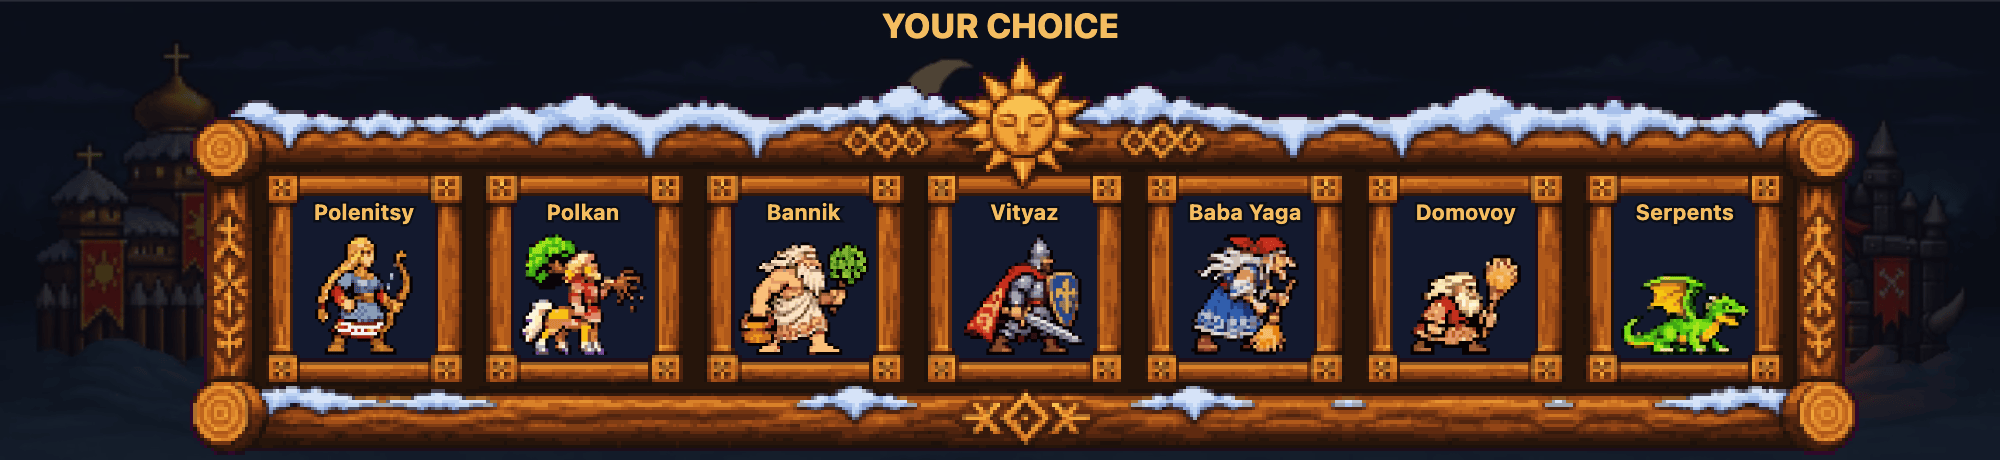
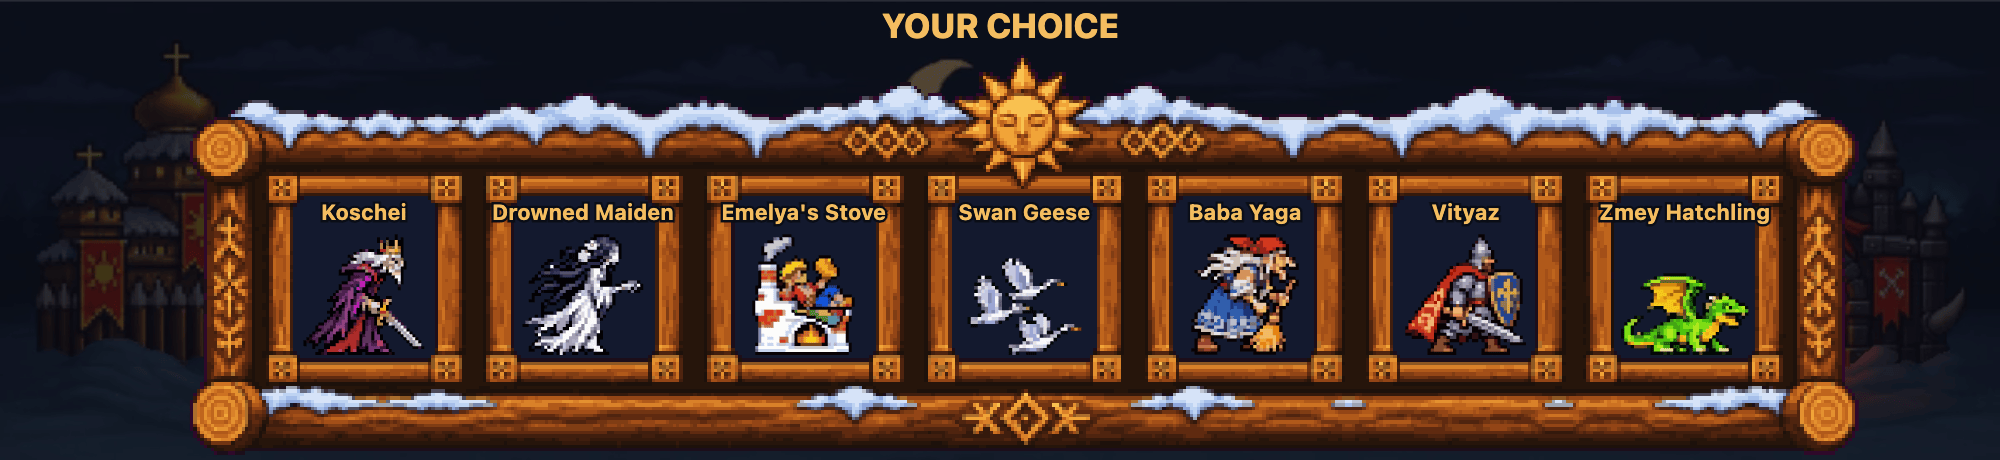
README for 0.6.0: the race choice, lines tied and sold from their card, two prices on the hire bar, the race's mana spell; pictures taken on the 0.6.0 core and the Claude Desktop window

diff --git a/README.md b/README.md
@@ -2,11 +2,11 @@
 
 <p align="center">
   <b>Play while you’re Clauding.</b><br>
-  An autobattler above the prompt: Slavic folklore against orcs. The battle runs while Claude works, and Claude's work deals the cards.
+  An autobattler above the prompt: Slavic folklore against orcs. Play either side. The battle runs while Claude works, and Claude's work deals the cards.
 </p>
 
 <p align="center">
-  <img src="media/battle.gif" alt="A battle: Slavic warriors and a dragon fight orcs between a wooden fortress and an orc gate" width="1000">
+  <img src="media/battle.gif" alt="A battle: Perun's lightning strikes the orcs, then the Tsar's Stove, a Bogatyr and Koschei fight them between a wooden fortress and an orc gate" width="1000">
 </p>
 
 <p align="center">
@@ -17,9 +17,9 @@
 
 You give Claude a task. While it works, a small war runs in the band above the prompt box. You hire the army with a few clicks, and you can look away at any time: the battle waits when Claude stops.
 
-The game is free. It is an unofficial mod: Anthropic did not make it and does not endorse it.
-
-<!-- SCREENSHOT NEEDED: the Claude Desktop window with the game above the prompt. -->
+<p align="center">
+  <img src="media/desktop.png" alt="Claude Desktop: the battle and the hire bar stand above the prompt box while Claude works" width="1000">
+</p>
 
 ## Install
 
@@ -36,60 +36,76 @@ Or from a terminal:
 claude plugin install banners-of-lore --marketplace Nero0909/banners-of-lore
 ```
 
-On your first run the title offers a short lesson from the learned cat. The game speaks English and Russian: pick the language in **Settings** on the title.
+On your first run the title offers a short tutorial from the learned cat. The game speaks English and Russian: pick the language in **Settings** on the title.
 
 <p align="center">
-  <img src="media/title.png" alt="The title: New game, Lesson, Settings, and the cat's tip" width="1000">
+  <img src="media/title.png" alt="The title: New game, Tutorial, Settings, and the cat's tip" width="1000">
 </p>
 
 ## How it plays
 
-**Goal.** Break the orc gate before the orcs break your castle.
+**Goal.** Break the enemy's walls before they break yours.
 
-### 1. Draft your army
+### 1. Choose your race
 
-Pick your lines by hand, or let the reels deal them for +50 gold. Each side has 19 lines: tanks, mages, archers, supports and epics. The orcs draft too, and you see their choice before the fight.
+The Slavs hold the wooden fortress, the orcs hold the gate. Each race fights its own way:
+
+| | Slavs: kin and home | Orcs: blood and fury |
+|---|---|---|
+| **Fallen warriors** | Fill the Kin bar. At 12, your army heals and hits 30% harder. | Fill the Rage bar. When it is full, your orcs strike twice as fast. |
+| **Second power** | Home ground: near your fortress, your warriors take 20% less harm. | Scent of blood: your orcs hit 10% harder at foes below half health. |
+| **Mana spell** | Perun's lightning strikes the foe. | The orc totem stuns the foe. |
+
+<p align="center">
+  <img src="media/race.png" alt="Choose your race: the Slavs, kin and home, or the orcs, blood and fury" width="1000">
+</p>
+
+### 2. Draft your army
+
+Pick your lines by hand, or let the reels deal them for +50 gold. Each side has 19 lines: tanks, mages, archers, supports and epics. The enemy drafts too, and you see its choice before the fight.
 
 <p align="center">
   <img src="media/draft.png" alt="Your choice: seven Slavic lines dealt by the reels" width="1000">
   <img src="media/enemy.png" alt="Your enemy chose: seven orc lines" width="1000">
 </p>
 
-### 2. Hire and upgrade
+### 3. Hire, upgrade, tie and sell
 
-Gold comes every payday, once in 20 seconds. Each hire lifts the next payday, so gold kept in store earns nothing. You open five places on the field from your reserve, then hire more packs into each line and upgrade it to its stronger form. A line that no longer helps can be sold from its card for 80% of all the gold put into it.
+Gold comes every payday, once in 20 seconds. Each hire lifts the next payday, so gold kept in store earns nothing.
 
-<p align="center">
-  <img src="media/reserve.png" alt="The reserve: cards of the lines you can place, with price, attack, armour and ability" width="1000">
-</p>
-
-### 3. Counter the armour
-
-There are five attack types and five armour types. Pierce tears through Light armour (x1.75) and does little to Fortified (x0.57). Click any warrior on the field to see what it hits and what stops it.
+- **Place.** Open five places on the field from your reserve. An epic wakes after you hire enough of the others.
+- **Hire and upgrade.** Each line on the hire bar has two prices: the left one adds one more warrior, the right one (▲) makes the whole line stronger.
+- **Tie lines.** Click a face on the hire bar to open the line's card. There you choose which line it marches out with, so your archers walk behind your blades.
+- **Sell.** The same card sells the line for 80% of the gold you paid. Its warriors on the field fight on.
 
 <p align="center">
-  <img src="media/unit.png" alt="A unit card: Bogatyr, with armour, attack, HP, damage, range, speed, cost and abilities" width="1000">
+  <img src="media/reserve.png" alt="The reserve: cards of the lines you can place, with price, attack, armor and ability" width="1000">
+  <img src="media/unit.png" alt="A line's card: Rusalka, with armor, attack, HP, damage, range, speed, cost, abilities, a Sell plate and the lines she can march out with" width="1000">
 </p>
 
-### 4. Claude's work joins the fight
+### 4. Counter the armor
+
+There are five attack types and five armor types. Pierce tears through Light armor (x1.75) and does little to Fortified (x0.57). Click any warrior on the field to see what it hits and what stops it.
+
+### 5. Claude's work joins the fight
 
 | What Claude does | What happens on the field |
 |---|---|
-| Writes output tokens | Mana fills. At 25 mana Perun strikes the orcs with lightning. |
-| Adds, edits or deletes lines of code | The die rolls and deals a card: gold, a damage boost, a stun, a storm. Most cards are good, and deleted lines make the die kinder. |
-| A tool call fails | The next orcs come enraged. |
-| Compacts its context | The orcs raise a totem, and your army stands still. |
+| Writes output tokens | Mana fills. At 25 mana your race's spell goes off: Perun's lightning or the orc totem. |
+| Adds, edits or deletes lines of code | The die rolls and deals a card: gold, a damage boost, free squads, a thaw that holds an army back. Most cards are good, and deleted lines make the die kinder. |
+| A tool call fails | The next enemy wave comes enraged. |
+| Compacts its context | Your army is stunned and stands still. |
 
 <p align="center">
   <img src="media/card.gif" alt="The die rolls: Claude added 123 lines, +38% damage for 10 seconds" width="1000">
 </p>
 
-### 5. Win or fall
+### 6. Win or fall
 
-Your fallen fill the Kin bar: at 12, your army heals and hits 30% harder. Each castle strikes twice in a match and kills everyone at its wall. A match takes about 6 to 10 minutes of Claude's work. There are three levels: Easy, Normal and Hard.
+Each side's walls strike twice in a match and kill everyone who stands at them. A match takes about 5 to 13 minutes of Claude's work. There are three levels: Easy, Normal and Hard. After a match the end screen offers to raise or lower the level.
 
 <p align="center">
-  <img src="media/victory.png" alt="Victory" width="1000">
+  <img src="media/victory.png" alt="Victory, with a button to raise the level to Normal" width="1000">
 </p>
 
 ## What you need
